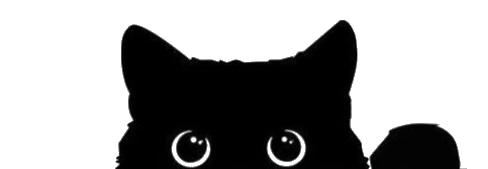
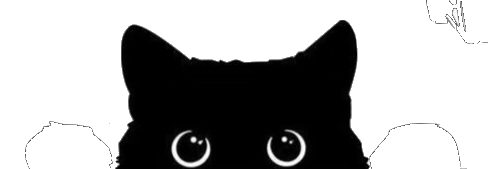
fix peeking cat: preserve eye whites, resize and reposition
Re-process image with border flood-fill so enclosed white eye circles
are kept (not removed as background). Shrink to 240px wide, align left
under lyric text, bottom:10px so eyes peek just above the navbar edge.

Claude-Session: https://claude.ai/code/session_0152xxmiR64HQXagov6Bnfyw

diff --git a/app/src/styles/Home.css b/app/src/styles/Home.css
@@ -107,10 +107,9 @@
 
 .peeking-cat {
   position: fixed;
-  bottom: 0;
-  left: 50%;
-  transform: translateX(-50%);
-  width: 360px;
+  bottom: 10px;
+  left: 12px;
+  width: 240px;
   pointer-events: none;
   z-index: 2;
 }